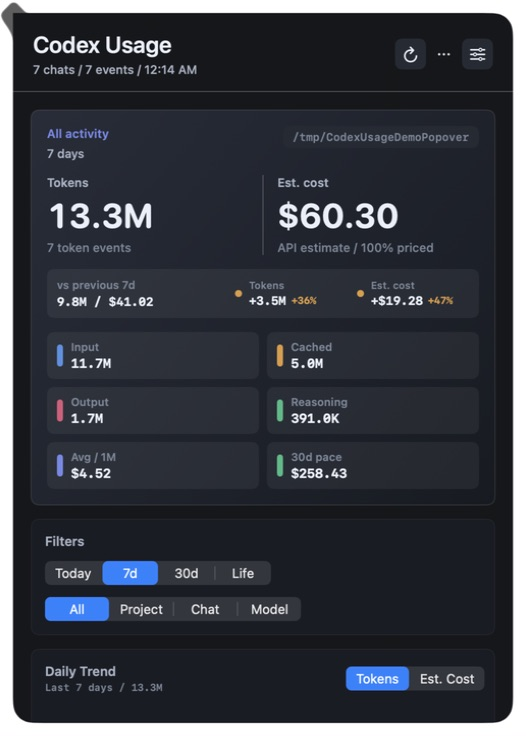
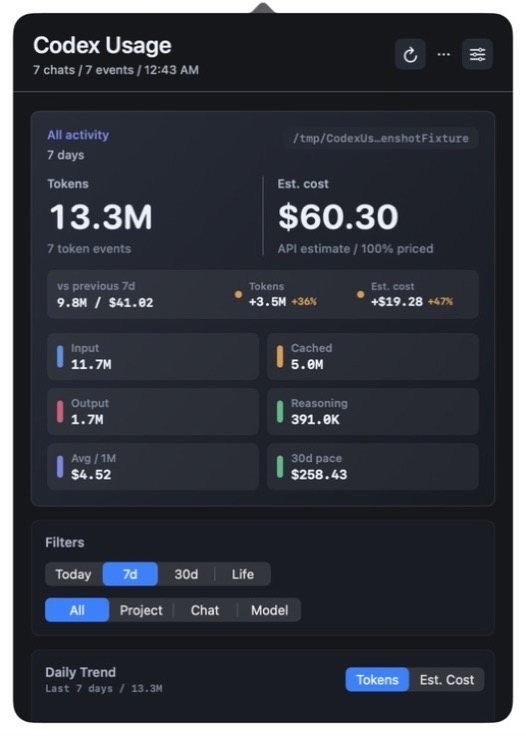
Refresh cursor-free release screenshots

diff --git a/CHANGELOG.md b/CHANGELOG.md
@@ -2,6 +2,8 @@
 
 ## 0.4.1 - 2026-07-11
 
+- Refreshed the synthetic public screenshots with complete cursor-free dashboard and Rates captures.
+
 - Declared the app as an `LSUIElement` agent so it launches directly as a menu-bar utility without a transient Dock presence.
 - Counted the first usage snapshot after a cumulative token-counter reset instead of silently dropping that segment.
 - Limited fallback deduplication to consecutive duplicate snapshots so later legitimate turns with the same token shape remain counted.

diff --git a/Docs/Screenshots/README.md b/Docs/Screenshots/README.md
@@ -20,3 +20,5 @@ python3 Tools/MakeDemoFixture.py \
 ```
 
 Point a separate QA copy of the app at the generated folder, use the 7-day window, and capture the Dashboard and Settings > Rates views. The committed images are cropped only to omit the macOS screen-recording title strip; the app UI is otherwise unmodified.
+
+Before committing, inspect both images at their original size. The full popover must be present, the pointer must be outside the captured pixels, and no text field may have selected text or a focus highlight. Export the final files as complete baseline JPEGs so repository and browser previews render the entire frame consistently.